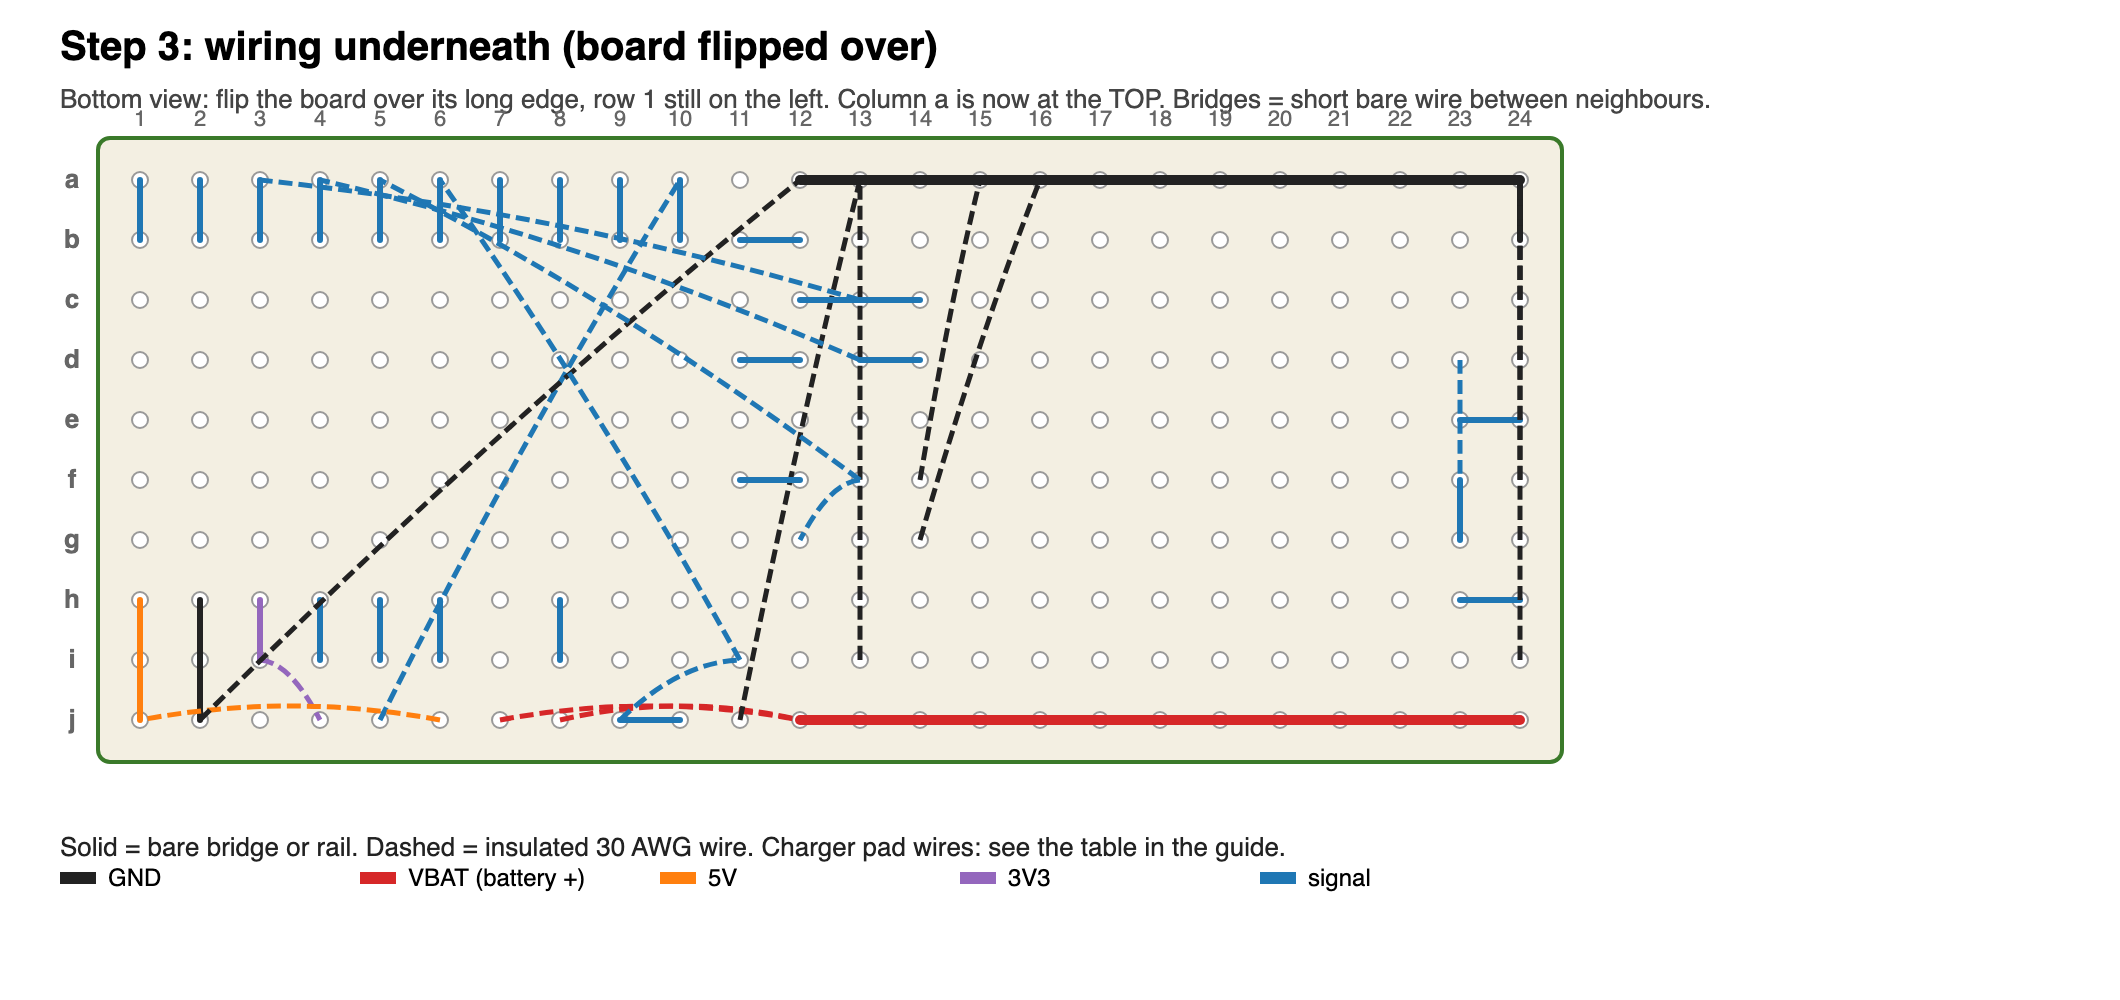
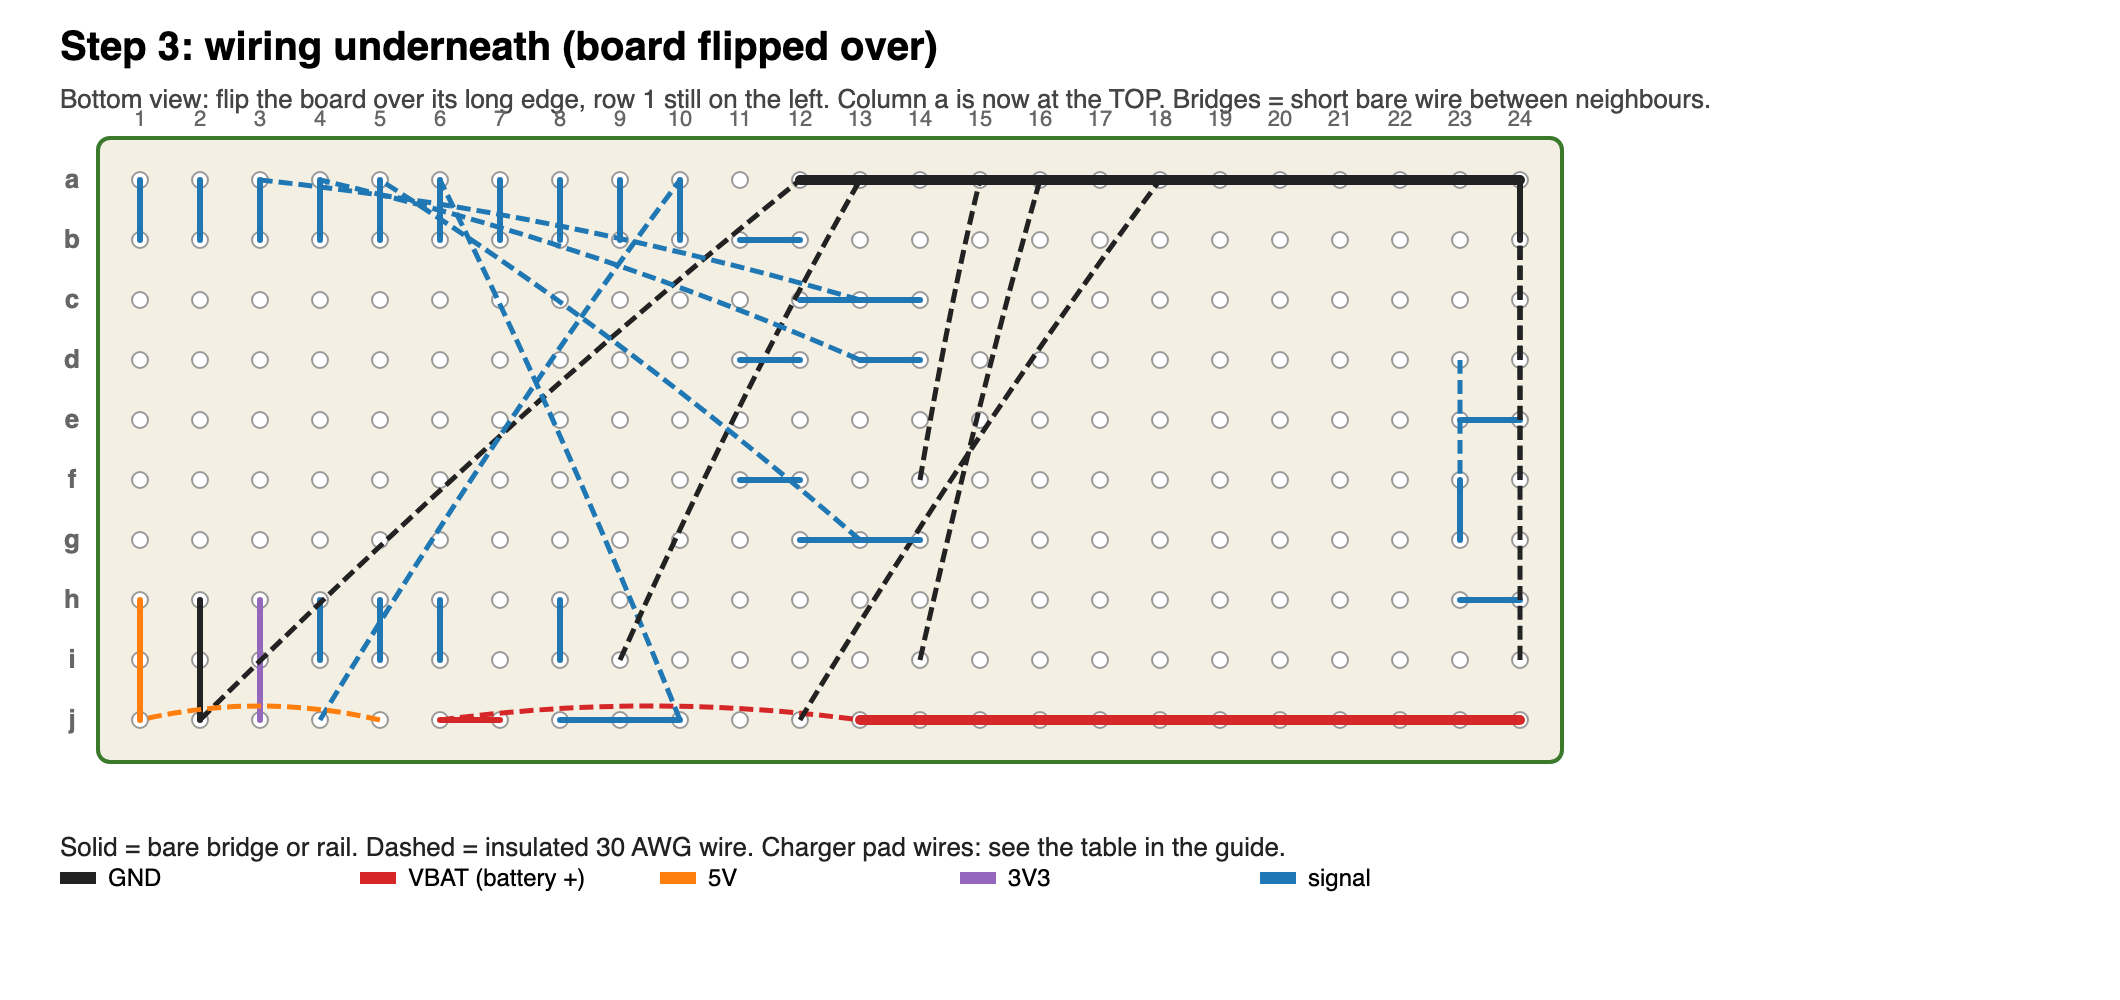
Dev board: no angled bridges or short angled wires
R stat to j3-j4 (straight h3-i3-j3 bridge), divider and C div in column j with
straight bridges, filter 3 mirrored like filter 1, VBAT rail from j13. Diagonal
10u modelled as its tilted body. Checker: no collisions, 25 nets OK.

diff --git a/hardware/mechanical/fusion/ControllerV4/ControllerV4.py b/hardware/mechanical/fusion/ControllerV4/ControllerV4.py
@@ -133,8 +133,11 @@ def layout():
         (i0, m0), (i1, m1) = H(ha), H(hb)
         assert abs(i0 - i1) + abs(m0 - m1) == 2, name + ': ceramic caps span 3 holes or one diagonal'
         xm, ym = (X(i0) + X(i1)) / 2, (Y(m0) + Y(m1)) / 2
-        if i0 != i1 and m0 != m1:                    # diagonal: bounding box of the tilted body, leaned 0.6 mm away from the ESP
-            box = (name, xm - 2.4, xm + 2.4, ym - 1.8, ym + 3.0, t, t + 5.0)
+        if i0 != i1 and m0 != m1:                    # diagonal: tilted body as 3 blocks along it, leaned 0.6 mm away from the ESP
+            ux, uy = (X(i1) - X(i0)) / math.hypot(X(i1) - X(i0), Y(m1) - Y(m0)), (Y(m1) - Y(m0)) / math.hypot(X(i1) - X(i0), Y(m1) - Y(m0))
+            boxes = [(name, xm + k * ux - 1.25, xm + k * ux + 1.25, ym + 0.6 + k * uy - 1.25, ym + 0.6 + k * uy + 1.25, t, t + 5.0)
+                     for k in (-1.6, 0.0, 1.6)]
+            return Part(name, [(i0, m0, labels[0]), (i1, m1, labels[1])], boxes)
         elif i0 == i1:
             box = (name, xm - 1.0, xm + 1.0, ym - 2.4, ym + 2.4, t, t + 5.0)
         else:
@@ -143,15 +146,15 @@ def layout():
 
     # next to the ESP (column j rows 1-11; the middle hole of a ceramic cap stays empty under it)
     parts += [disc('C 10u', 'j1', 'i2', ('5V', 'G')),
-              upright('R stat 10k', 'j4', 'j5'),
-              upright('D3 1N5819', 'j6', 'j7', 2.7, 8.0, ('K', 'A')),
-              upright('R div top 1M', 'j8', 'j9'),
-              upright('R div bot 1M', 'j10', 'j11'),
-              disc('C div 100n', 'i11', 'i13')]
+              upright('R stat 10k', 'j3', 'j4'),
+              upright('D3 1N5819', 'j5', 'j6', 2.7, 8.0, ('K', 'A')),
+              upright('R div top 1M', 'j7', 'j8'),
+              upright('R div bot 1M', 'j9', 'i9'),                    # lead bent across into i9 (GND)
+              disc('C div 100n', 'j10', 'j12')]
     # angle filters, rows 12-14 (1 k standing, 100 n spanning 3 holes)
     parts += [upright('R ADC1 1k', 'b12', 'c12'), disc('C ADC1 100n', 'a14', 'c14'),
               upright('R ADC2 1k', 'd12', 'd13'), disc('C ADC2 100n', 'd14', 'f14'),
-              upright('R ADC3 1k', 'f12', 'f13'), disc('C ADC3 100n', 'g12', 'g14')]
+              upright('R ADC3 1k', 'f12', 'g12'), disc('C ADC3 100n', 'g14', 'i14')]
     # the charger's own bulk electrolytic is soldered on the charger board (not on the perfboard)
     # power row: diodes and zener (row 23), connectors (row 24)
     parts += [upright('D1 1N5819 USB', 'e23', 'd23', 2.7, 8.0, ('A', 'K')),
@@ -174,7 +177,7 @@ def layout():
 WIRES = [
     # rails (bare tinned wire along the column, soldered at every hole)
     ('a12', 'a24', 'GND rail: bare wire down column a, rows 12-24'),
-    ('j12', 'j24', 'VBAT rail: bare wire down column j, rows 12-24'),
+    ('j13', 'j24', 'VBAT rail: bare wire down column j, rows 13-24'),
     # ESP pins to their neighbours
     ('a1', 'b1', 'bridge: port 3 IN1 -> GPIO16'), ('a2', 'b2', 'bridge: port 3 IN2 -> GPIO17'),
     ('a3', 'b3', 'bridge: angle 1 -> GPIO0'), ('a4', 'b4', 'bridge: angle 2 -> GPIO1'), ('a5', 'b5', 'bridge: angle 3 -> GPIO2'),
@@ -182,23 +185,24 @@ WIRES = [
     ('a7', 'b7', 'bridge: port 1 EN -> GPIO4'), ('a8', 'b8', 'bridge: port 2 EN -> GPIO5'), ('a9', 'b9', 'bridge: port 3 EN -> GPIO6'),
     ('a10', 'b10', 'bridge: charger STAT -> GPIO7'),
     ('h1', 'j1', 'bridge (over i1): ESP 5V -> C 10u'), ('h2', 'j2', 'bridge (over i2): ESP GND -> C 10u'),
-    ('h3', 'i3', 'bridge: ESP 3V3'),
+    ('h3', 'j3', 'bridge (over i3): ESP 3V3 -> R stat'),
     ('h4', 'i4', 'bridge: port 2 IN1 -> GPIO20'), ('h5', 'i5', 'bridge: port 1 IN2 -> GPIO19'),
     ('h6', 'i6', 'bridge: port 1 IN1 -> GPIO18'), ('h8', 'i8', 'bridge: port 2 IN2 -> GPIO14'),
     # power to the ESP, STAT, divider
-    ('i3', 'j4', 'wire: 3V3 -> R stat'), ('j5', 'a10', 'wire: R stat -> STAT / GPIO7'),
-    ('j6', 'j1', 'wire: D3 cathode -> ESP 5V'), ('j7', 'j12', 'wire: D3 anode -> VBAT rail'),
-    ('j2', 'a12', 'wire: ESP GND -> GND rail'),
-    ('j8', 'j12', 'wire: R div top -> VBAT rail'), ('j9', 'j10', 'bridge: divider node'),
-    ('j9', 'i11', 'wire: divider node -> C div'), ('i11', 'a6', 'wire: divider node -> GPIO3'),
-    ('j11', 'a13', 'wire: R div bot -> GND rail'), ('i13', 'a13', 'wire: C div -> GND rail'),
+    ('j2', 'a12', 'wire: ESP GND -> GND rail'), ('j4', 'a10', 'wire: R stat -> STAT / GPIO7'),
+    ('j5', 'j1', 'wire: D3 cathode -> ESP 5V (straight along column j)'),
+    ('j6', 'j7', 'bridge: D3 anode -> R div top (VBAT)'), ('j6', 'j13', 'wire: D3 anode -> VBAT rail (straight along column j)'),
+    ('j8', 'j9', 'bridge: divider node'), ('j9', 'j10', 'bridge: divider node -> C div'),
+    ('j10', 'a6', 'wire: divider node -> GPIO3'),
+    ('i9', 'a13', 'wire: R div bot -> GND rail'), ('j12', 'a18', 'wire: C div -> GND rail'),
     # angle filters
     ('b11', 'b12', 'bridge: port 1 ANGLE -> R ADC1'), ('d11', 'd12', 'bridge: port 2 ANGLE -> R ADC2'),
     ('f11', 'f12', 'bridge: port 3 ANGLE -> R ADC3'),
-    ('c12', 'c13', 'bridge: R ADC1 -> filter 1 node'), ('c13', 'c14', 'bridge: filter 1 node -> C ADC1'), ('d13', 'd14', 'bridge: R ADC2 -> C ADC2'),
-    ('f13', 'g12', 'wire: R ADC3 -> C ADC3'),
-    ('c13', 'a3', 'wire: filter 1 -> GPIO0'), ('d13', 'a4', 'wire: filter 2 -> GPIO1'), ('f13', 'a5', 'wire: filter 3 -> GPIO2'),
-    ('f14', 'a15', 'wire: C ADC2 -> GND rail'), ('g14', 'a16', 'wire: C ADC3 -> GND rail'),
+    ('c12', 'c13', 'bridge: R ADC1 -> filter 1 node'), ('c13', 'c14', 'bridge: filter 1 node -> C ADC1'),
+    ('d13', 'd14', 'bridge: R ADC2 -> C ADC2'),
+    ('g12', 'g13', 'bridge: R ADC3 -> filter 3 node'), ('g13', 'g14', 'bridge: filter 3 node -> C ADC3'),
+    ('c13', 'a3', 'wire: filter 1 -> GPIO0'), ('d13', 'a4', 'wire: filter 2 -> GPIO1'), ('g13', 'a5', 'wire: filter 3 -> GPIO2'),
+    ('f14', 'a15', 'wire: C ADC2 -> GND rail'), ('i14', 'a16', 'wire: C ADC3 -> GND rail'),
     # power row
     ('e23', 'e24', 'bridge: USB V+ -> D1 anode'), ('h23', 'h24', 'bridge: solar + -> D2 anode'),
     ('d23', 'f23', 'wire: D1 cathode -> PWR node (zener cathode)'), ('f23', 'g23', 'bridge: PWR node -> D2 cathode'),
@@ -231,8 +235,8 @@ def wiring_md():
           'ESP32-C6: chip side up, header pins in its **inner** holes, into **b1-b10** (TX16, RX17, 0, 1, 2, 3, 4, 5, 6, 7) and',
           '**h1-h10** (5V, GND, 3V3, 20, 19, 18, 15, 14, 9, 8), USB-C overhanging row 1 (confirmed against the board).',
           'Leave its inner pads (12, 13, 21, 22, 23) and BAT pad unconnected. Charger: foam tape over **c15-h22**.', '',
-          'D3 (j6-j7) drops ~0.3 V, so the ESP browns out near 3.4-3.5 V on the cell (last ~10-15 %). Optional: 2 header',
-          'pins + jumper at j6-j7 instead of D3 (zero drop; pull the jumper before plugging USB into the ESP).', '',
+          'D3 (j5-j6) drops ~0.3 V, so the ESP browns out near 3.4-3.5 V on the cell (last ~10-15 %). Optional: 2 header',
+          'pins + jumper at j5-j6 instead of D3 (zero drop; pull the jumper before plugging USB into the ESP).', '',
           '## Port leads (from the RJ12 boards)', '', '| Lead | Hole | Lead | Hole | Lead | Hole |', '|---|---|---|---|---|---|']
     leads = {lab: HN(i, m) for i, m, lab in next(p for p in layout() if p.name == 'Port leads').pins}
     for sig in ('IN1', 'IN2', 'EN', 'ANG', 'VBAT', 'GND'):

diff --git a/tools/devboard_guide.py b/tools/devboard_guide.py
@@ -137,12 +137,12 @@ def guide_top():
 
     o = board('Step 2: parts on top (direction matters for the dark ones)',
               'Top side. Tan = resistor, blue = ceramic capacitor (any way round). Black = diode: the band goes where shown. Electrolytic: stripe = minus.')
-    for name, a, b, txt in (('R stat', 'j4', 'j5', '10k'), ('R div top', 'j8', 'j9', '1M'), ('R div bot', 'j10', 'j11', '1M'),
-                            ('R ADC1', 'b12', 'c12', '1k'), ('R ADC2', 'd12', 'd13', '1k'), ('R ADC3', 'f12', 'f13', '1k')):
+    for name, a, b, txt in (('R stat', 'j3', 'j4', '10k'), ('R div top', 'j7', 'j8', '1M'), ('R div bot', 'j9', 'i9', '1M'),
+                            ('R ADC1', 'b12', 'c12', '1k'), ('R ADC2', 'd12', 'd13', '1k'), ('R ADC3', 'f12', 'g12', '1k')):
         resistor(o, a, b, txt)
-    for a, b, txt in (('j1', 'i2', '10µ'), ('i11', 'i13', '100n'), ('a14', 'c14', '100n'), ('d14', 'f14', '100n'), ('g12', 'g14', '100n')):
+    for a, b, txt in (('j1', 'i2', '10µ'), ('j10', 'j12', '100n'), ('a14', 'c14', '100n'), ('d14', 'f14', '100n'), ('g14', 'i14', '100n')):
         ceramic(o, a, b, txt)
-    diode(o, 'j6', 'j7', 'D3 band→j6', True)
+    diode(o, 'j5', 'j6', 'D3 band→j5', True)
     diode(o, 'e23', 'd23', '', False)
     diode(o, 'h23', 'g23', '', False)
     diode(o, 'f24', 'f23', '', False)
@@ -179,7 +179,7 @@ def guide_bottom():
         else:
             col = NET_COL['sig']
         (x0, y0), (x1, y1) = pos(f, True), pos(t, True)
-        wdt = 5 if 'rail' in n and n.endswith(('rows 12-24', 'rows 11-24')) else 3
+        wdt = 5 if 'rail' in n and n.endswith(('rows 12-24', 'rows 13-24')) else 3
         if n.startswith('bridge') or 'rail' in n.split(':')[0]:
             o.append('<line x1="%.0f" y1="%.0f" x2="%.0f" y2="%.0f" stroke="%s" stroke-width="%d" stroke-linecap="round"/>' % (
                 x0, y0, x1, y1, col, wdt))

diff --git a/tools/devboard_check.py b/tools/devboard_check.py
@@ -59,14 +59,14 @@ def gap(a, b):
 
 # ------------------------------------------------------------------ nets
 EXPECT = {
-    'GND': ['h2', 'i2', 'j2', 'a12', 'a13', 'a24', 'j11', 'i13', 'a14', 'f14', 'g14', 'b24', 'd24', 'f24', 'i24',
+    'GND': ['h2', 'i2', 'j2', 'a12', 'a13', 'a18', 'a24', 'i9', 'j12', 'a14', 'f14', 'i14', 'b24', 'd24', 'f24', 'i24',
             'a15', 'a16', 'a17', 'a20', 'a21', 'a22'],
-    'VBAT': ['j12', 'j24', 'j7', 'j8', 'j15', 'j16', 'j17', 'j20'],
-    '5V': ['h1', 'j1', 'j6'],
-    '3V3': ['h3', 'i3', 'j4'],
-    'STAT': ['b10', 'a10', 'j5'],
-    'VDIV': ['b6', 'a6', 'j9', 'j10', 'i11'],
-    'ADC0': ['b3', 'a3', 'c12', 'c13', 'c14'], 'ADC1': ['b4', 'a4', 'd13', 'd14'], 'ADC2': ['b5', 'a5', 'f13', 'g12'],
+    'VBAT': ['j13', 'j24', 'j6', 'j7', 'j15', 'j16', 'j17', 'j20'],
+    '5V': ['h1', 'j1', 'j5'],
+    '3V3': ['h3', 'i3', 'j3'],
+    'STAT': ['b10', 'a10', 'j4'],
+    'VDIV': ['b6', 'a6', 'j8', 'j9', 'j10'],
+    'ADC0': ['b3', 'a3', 'c12', 'c13', 'c14'], 'ADC1': ['b4', 'a4', 'd13', 'd14'], 'ADC2': ['b5', 'a5', 'g12', 'g13', 'g14'],
     'ANG1': ['b11', 'b12'], 'ANG2': ['d11', 'd12'], 'ANG3': ['f11', 'f12'],
     'EN1': ['a7', 'b7'], 'EN2': ['a8', 'b8'], 'EN3': ['a9', 'b9'],
     'P3IN1': ['a1', 'b1'], 'P3IN2': ['a2', 'b2'], 'P1IN1': ['i6', 'h6'], 'P1IN2': ['i5', 'h5'],

diff --git a/docs/renders/ctrl-v4-wiring.md b/docs/renders/ctrl-v4-wiring.md
@@ -7,17 +7,17 @@ Step-by-step guide with pictures and which parts have a direction: [dev-board-bu
 | Part | Holes | Note |
 |---|---|---|
 | C 10u | j1 (5V), i2 (G) |  |
-| R stat 10k | j4, j5 |  |
-| D3 1N5819 | j6 (K), j7 (A) |  |
-| R div top 1M | j8, j9 |  |
-| R div bot 1M | j10, j11 |  |
-| C div 100n | i11, i13 |  |
+| R stat 10k | j3, j4 |  |
+| D3 1N5819 | j5 (K), j6 (A) |  |
+| R div top 1M | j7, j8 |  |
+| R div bot 1M | j9, i9 |  |
+| C div 100n | j10, j12 |  |
 | R ADC1 1k | b12, c12 |  |
 | C ADC1 100n | a14, c14 |  |
 | R ADC2 1k | d12, d13 |  |
 | C ADC2 100n | d14, f14 |  |
-| R ADC3 1k | f12, f13 |  |
-| C ADC3 100n | g12, g14 |  |
+| R ADC3 1k | f12, g12 |  |
+| C ADC3 100n | g14, i14 |  |
 | D1 1N5819 USB | e23 (A), d23 (K) |  |
 | D2 1N5819 solar | h23 (A), g23 (K) |  |
 | Z 6.2V | f24 (A), f23 (K) |  |
@@ -32,8 +32,8 @@ ESP32-C6: chip side up, header pins in its **inner** holes, into **b1-b10** (TX1
 **h1-h10** (5V, GND, 3V3, 20, 19, 18, 15, 14, 9, 8), USB-C overhanging row 1 (confirmed against the board).
 Leave its inner pads (12, 13, 21, 22, 23) and BAT pad unconnected. Charger: foam tape over **c15-h22**.
 
-D3 (j6-j7) drops ~0.3 V, so the ESP browns out near 3.4-3.5 V on the cell (last ~10-15 %). Optional: 2 header
-pins + jumper at j6-j7 instead of D3 (zero drop; pull the jumper before plugging USB into the ESP).
+D3 (j5-j6) drops ~0.3 V, so the ESP browns out near 3.4-3.5 V on the cell (last ~10-15 %). Optional: 2 header
+pins + jumper at j5-j6 instead of D3 (zero drop; pull the jumper before plugging USB into the ESP).
 
 ## Port leads (from the RJ12 boards)
 
@@ -53,7 +53,7 @@ RJ12 pin -> signal: 1 VBAT, 2 IN1, 3 GND, 4 ANG, 5 EN, 6 IN2. Port 1 = room side
 | From | To | What |
 |---|---|---|
 | a12 | a24 | GND rail: bare wire down column a, rows 12-24 |
-| j12 | j24 | VBAT rail: bare wire down column j, rows 12-24 |
+| j13 | j24 | VBAT rail: bare wire down column j, rows 13-24 |
 | a1 | b1 | bridge: port 3 IN1 -> GPIO16 |
 | a2 | b2 | bridge: port 3 IN2 -> GPIO17 |
 | a3 | b3 | bridge: angle 1 -> GPIO0 |
@@ -66,34 +66,34 @@ RJ12 pin -> signal: 1 VBAT, 2 IN1, 3 GND, 4 ANG, 5 EN, 6 IN2. Port 1 = room side
 | a10 | b10 | bridge: charger STAT -> GPIO7 |
 | h1 | j1 | bridge (over i1): ESP 5V -> C 10u |
 | h2 | j2 | bridge (over i2): ESP GND -> C 10u |
-| h3 | i3 | bridge: ESP 3V3 |
+| h3 | j3 | bridge (over i3): ESP 3V3 -> R stat |
 | h4 | i4 | bridge: port 2 IN1 -> GPIO20 |
 | h5 | i5 | bridge: port 1 IN2 -> GPIO19 |
 | h6 | i6 | bridge: port 1 IN1 -> GPIO18 |
 | h8 | i8 | bridge: port 2 IN2 -> GPIO14 |
-| i3 | j4 | wire: 3V3 -> R stat |
-| j5 | a10 | wire: R stat -> STAT / GPIO7 |
-| j6 | j1 | wire: D3 cathode -> ESP 5V |
-| j7 | j12 | wire: D3 anode -> VBAT rail |
 | j2 | a12 | wire: ESP GND -> GND rail |
-| j8 | j12 | wire: R div top -> VBAT rail |
-| j9 | j10 | bridge: divider node |
-| j9 | i11 | wire: divider node -> C div |
-| i11 | a6 | wire: divider node -> GPIO3 |
-| j11 | a13 | wire: R div bot -> GND rail |
-| i13 | a13 | wire: C div -> GND rail |
+| j4 | a10 | wire: R stat -> STAT / GPIO7 |
+| j5 | j1 | wire: D3 cathode -> ESP 5V (straight along column j) |
+| j6 | j7 | bridge: D3 anode -> R div top (VBAT) |
+| j6 | j13 | wire: D3 anode -> VBAT rail (straight along column j) |
+| j8 | j9 | bridge: divider node |
+| j9 | j10 | bridge: divider node -> C div |
+| j10 | a6 | wire: divider node -> GPIO3 |
+| i9 | a13 | wire: R div bot -> GND rail |
+| j12 | a18 | wire: C div -> GND rail |
 | b11 | b12 | bridge: port 1 ANGLE -> R ADC1 |
 | d11 | d12 | bridge: port 2 ANGLE -> R ADC2 |
 | f11 | f12 | bridge: port 3 ANGLE -> R ADC3 |
 | c12 | c13 | bridge: R ADC1 -> filter 1 node |
 | c13 | c14 | bridge: filter 1 node -> C ADC1 |
 | d13 | d14 | bridge: R ADC2 -> C ADC2 |
-| f13 | g12 | wire: R ADC3 -> C ADC3 |
+| g12 | g13 | bridge: R ADC3 -> filter 3 node |
+| g13 | g14 | bridge: filter 3 node -> C ADC3 |
 | c13 | a3 | wire: filter 1 -> GPIO0 |
 | d13 | a4 | wire: filter 2 -> GPIO1 |
-| f13 | a5 | wire: filter 3 -> GPIO2 |
+| g13 | a5 | wire: filter 3 -> GPIO2 |
 | f14 | a15 | wire: C ADC2 -> GND rail |
-| g14 | a16 | wire: C ADC3 -> GND rail |
+| i14 | a16 | wire: C ADC3 -> GND rail |
 | e23 | e24 | bridge: USB V+ -> D1 anode |
 | h23 | h24 | bridge: solar + -> D2 anode |
 | d23 | f23 | wire: D1 cathode -> PWR node (zener cathode) |

diff --git a/docs/dev-board-build.md b/docs/dev-board-build.md
@@ -53,13 +53,13 @@ isn't stressed.
 | Part | Holes | Direction |
 |---|---|---|
 | 10 µF ceramic | **j1, i2** (corner to corner: pull the legs in slightly, lean the body away from the ESP) | any |
-| 10 kΩ (R stat) | j4, j5 | any |
-| **D3** 1N5819 | j6, j7 | **band at j6** |
-| 1 MΩ (divider top) | j8, j9 | any |
-| 1 MΩ (divider bottom) | j10, j11 | any |
-| 100 nF (divider) | i11, i13 (i12 empty) | any |
-| 1 kΩ ×3 (angle filters) | b12–c12, d12–d13, f12–f13 | any |
-| 100 nF ×3 (angle filters) | a14–c14, d14–f14, g12–g14 (middle holes empty) | any |
+| 10 kΩ (R stat) | j3, j4 | any |
+| **D3** 1N5819 | j5, j6 | **band at j5** |
+| 1 MΩ (divider top) | j7, j8 | any |
+| 1 MΩ (divider bottom) | j9, i9 (body over j9, lead bent across into i9) | any |
+| 100 nF (divider) | j10, j12 (j11 empty) | any |
+| 1 kΩ ×3 (angle filters) | b12–c12, d12–d13, f12–g12 | any |
+| 100 nF ×3 (angle filters) | a14–c14, d14–f14, g14–i14 (middle holes empty) | any |
 | **D1** 1N5819 (USB) | e23, d23 | **band at d23** |
 | **D2** 1N5819 (solar) | h23, g23 | **band at g23** |
 | **Zener** 6.2 V | f24, f23 | **band at f23** |
@@ -72,15 +72,15 @@ isn't stressed.
 Flip the board over its **long** edge: row 1 stays on the left, column a is now at the **top**. The colours match the
 nets: black GND, red battery +, orange 5V, purple 3V3, blue signals.
 
-1. **Rails first:** a bare wire along column **a**, rows 12–24 (GND), and along column **j**, rows 12–24 (battery +),
+1. **Rails first:** a bare wire along column **a**, rows 12–24 (GND), and along column **j**, rows 13–24 (battery +),
    soldered at every hole.
-2. **Bridges** next to the ESP (a1–b1 … a10–b10; h1–i1–j1, h2–i2–j2, h3–i3; h4–i4, h5–i5, h6–i6, h8–i8) and the
+2. **Bridges** next to the ESP (a1–b1 … a10–b10; h1–i1–j1, h2–i2–j2, h3–i3–j3; h4–i4, h5–i5, h6–i6, h8–i8) and the
    short ones in rows 9–14 and 23–24. Every bridge is a straight run between neighbouring holes; anything that
    isn't a neighbour is an insulated wire. Bridging under the empty middle hole of a capacitor is fine.
 3. **Wires** (dashed in the picture): every one is in the "Underside wiring" table of
    [ctrl-v4-wiring.md](renders/ctrl-v4-wiring.md), with what it connects.
 4. After each group, check with the meter's beep mode: the two ends beep, and **GND (a12) must NOT beep to battery +
-   (j12)** or to 5V (h1).
+   (j13)** or to 5V (h1).
 
 ## Step 4: charger
 1. Before mounting: if the charger came with a loose bulk capacitor, solder it onto the charger's own output/LOAD
@@ -116,7 +116,7 @@ Solder the 18 leads from the three RJ12 boards from the top (pin 1 = the square 
 Then the USB-C breakout's VBUS → e24 and GND → d24, and the solar lead's + → h24 and − → i24.
 
 ## Step 6: first power-up (no battery yet)
-1. Meter check: GND (a12) to battery + (j12): no beep. GND to 5V (h1): no beep. GND to 3V3 (h3): no beep.
+1. Meter check: GND (a12) to battery + (j13): no beep. GND to 5V (h1): no beep. GND to 3V3 (h3): no beep.
 2. Plug USB into the **ESP's own** USB-C only (battery unplugged). Its LED should light; upload the test sketch.
-3. Unplug USB, then push the cell's plug onto b24/c24 (**red on c24**). Measure j12 to a12: the cell voltage (3.0–4.2 V).
+3. Unplug USB, then push the cell's plug onto b24/c24 (**red on c24**). Measure j13 to a12: the cell voltage (3.0–4.2 V).
 4. Never plug USB into the ESP and the battery at the same time unless D3 is fitted.
